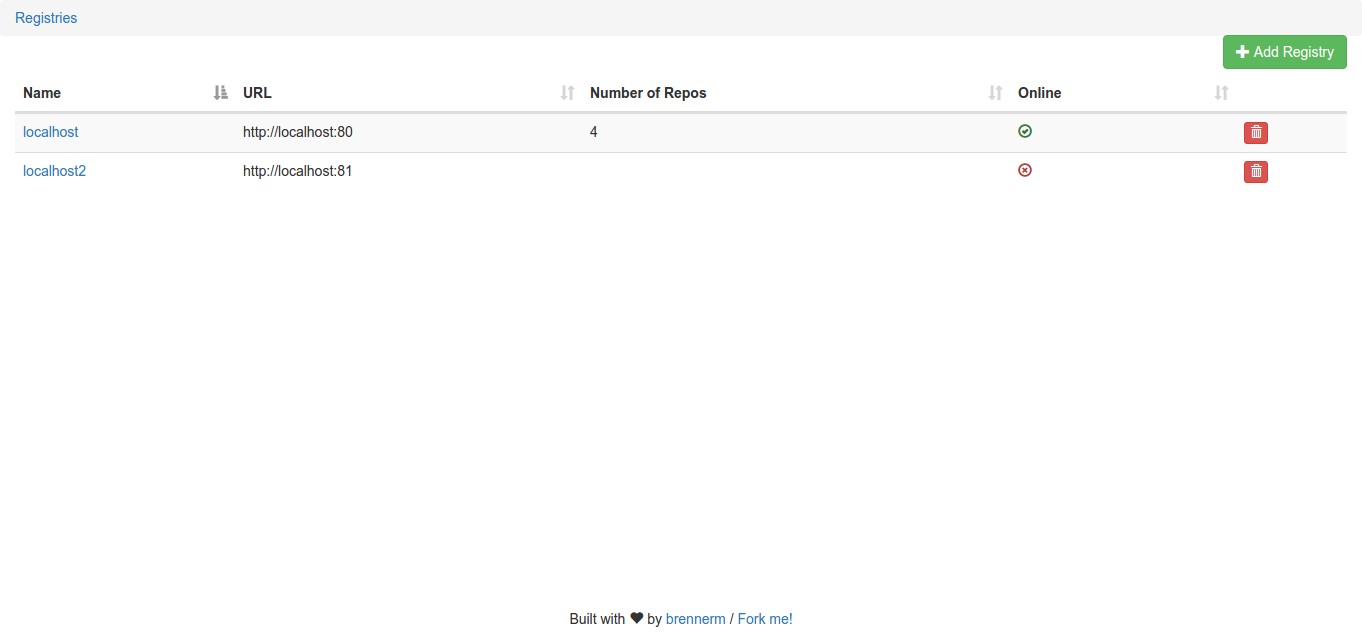
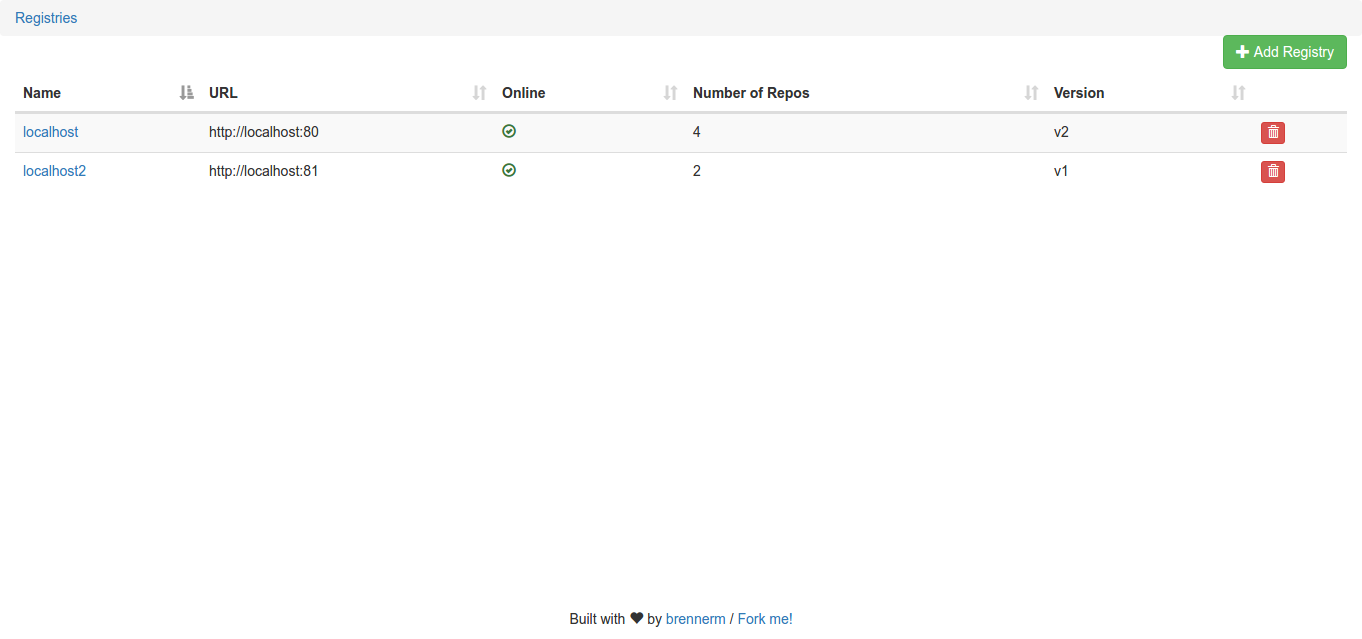
display version of registry

diff --git a/templates/registry_overview.html b/templates/registry_overview.html
@@ -13,8 +13,9 @@
         <tr>
             <th>Name</th>
             <th>URL</th>
-            <th>Number of Repos</th>
             <th>Online</th>
+            <th>Number of Repos</th>
+            <th>Version</th>
             <th data-orderable="false"></th>
         </tr>
     </thead>
@@ -24,11 +25,13 @@
             <td><a href="{{ url_for('repo_overview', registry_name=registry.name) }}">{{registry.name}}</a></td>
             <td>{{ registry.url}}</td>
             {% if registry.is_online() %}
-            <td>{{ registry.get_number_of_repos() }}</td>
             <td data-order="1" data-search="online"><span class="glyphicon glyphicon-ok-circle text-success"></span></td>
+            <td>{{ registry.get_number_of_repos() }}</td>
+            <td>v{{ registry.version }}</td>
             {% else %}
-            <td data-order="0"></td>
             <td data-order="0" data-search="offline"><span class="glyphicon glyphicon-remove-circle text-danger"></span></td>
+            <td data-order="0"></td>
+            <td data-order="0"></td>
             {% endif %}
             <td>
                 <form action="/remove_registry?id={{identifier}}" method="post">

diff --git a/docker_registry_frontend/registry.py b/docker_registry_frontend/registry.py
@@ -14,6 +14,8 @@ def nested_get(dictionary, *keys, default=None):
 
 
 class DockerRegistry(abc.ABC):
+    version = None
+
     def __init__(self, name, url, user=None, password=None):
         self._name = name
         self._url = url
@@ -126,6 +128,8 @@ class DockerV1Registry(DockerRegistry):
     GET_IMAGE_ANCESTORS = '{url}/v1/images/{image_id}/ancestry'
     GET_LAYER_TEMPLATE = '{url}/v1/images/{image_id}/layer'
 
+    version = 1
+
     def __get_image_id(self, repo, tag):
         return DockerRegistry.string_request(DockerV1Registry.GET_IMAGE_ID_TEMPLATE.format(
             url=self._url,
@@ -198,6 +202,8 @@ class DockerV2Registry(DockerRegistry):
     GET_ALL_TAGS_TEMPLATE = '{url}/v2/{repo}/tags/list'
     GET_MANIFEST_TEMPLATE = '{url}/v2/{repo}/manifests/{tag}'
     GET_LAYER_TEMPLATE = '{url}/v2/{repo}/blobs/{digest}'
+
+    version = 2
 
     @cache_with_timeout()
     def get_manifest(self, repo, tag):
